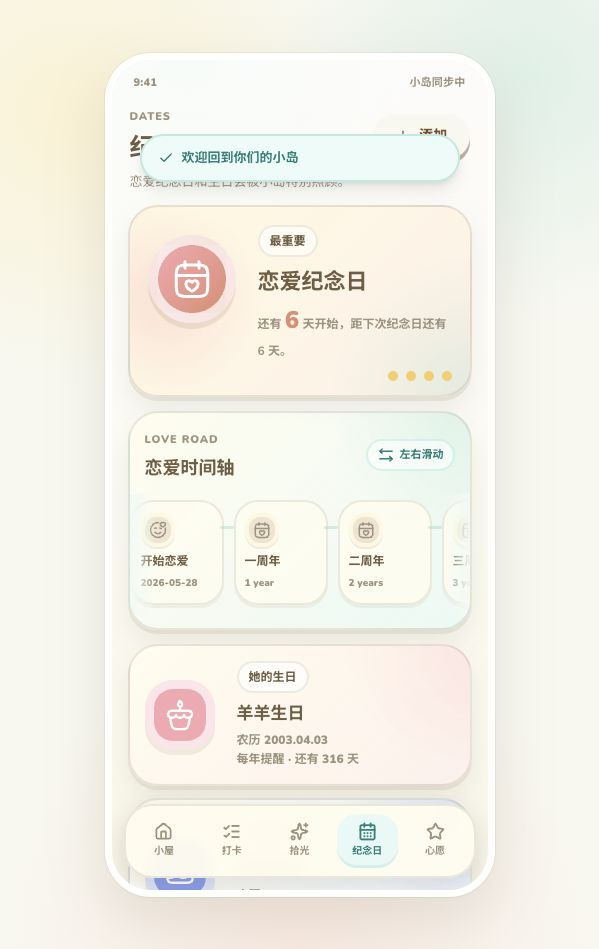
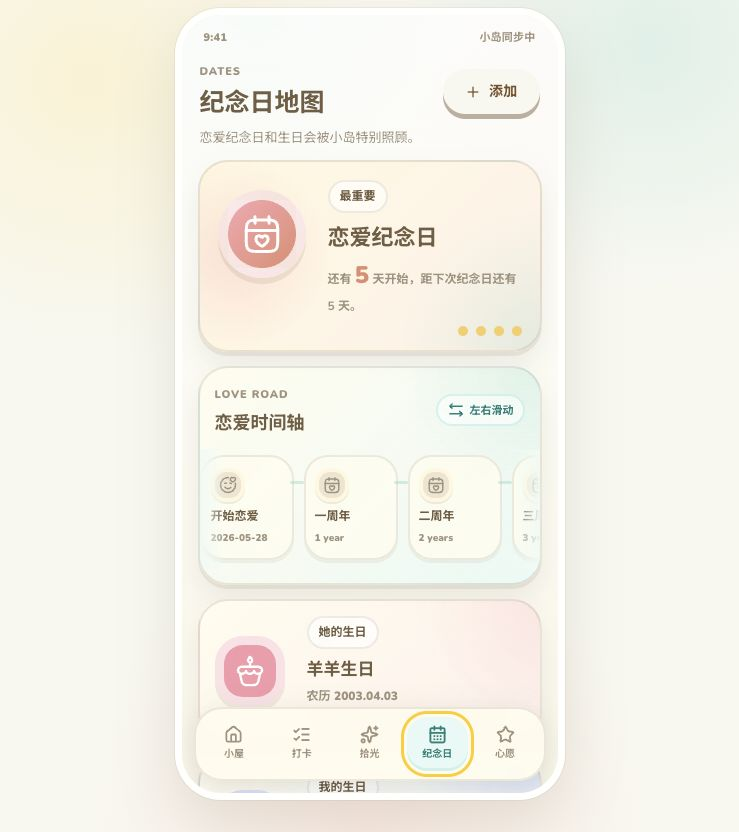
feat: display lunar anniversary countdowns

Changed region(s): [[0.1503, 0.0, 0.7813, 0.9688], [0.601, 0.0312, 0.8414, 0.1875], [0.601, 0.2812, 0.8114, 0.5]]

diff --git a/src/App.tsx b/src/App.tsx
@@ -133,6 +133,12 @@ function nextAnnualDays(date: string, todayDate = getBeijingDateString()) {
   return Math.ceil((next.getTime() - now) / 86_400_000)
 }
 
+function anniversaryDays(item: Anniversary, todayDate = getBeijingDateString()) {
+  if (typeof item.daysUntil === 'number') return item.daysUntil
+  if (item.nextOccurrenceDate) return dayDiff(todayDate, item.nextOccurrenceDate)
+  return item.repeat === 'yearly' ? nextAnnualDays(item.date, todayDate) : dayDiff(todayDate, item.date)
+}
+
 function getBeijingDateString(date = new Date()) {
   const parts = new Intl.DateTimeFormat('en-US', {
     day: '2-digit',
@@ -172,6 +178,9 @@ function mapBackendAnniversary(item: BackendAnniversary): Anniversary {
     isMain: item.isMain,
     kind: item.kind === 'proposal' || item.kind === 'engagement' ? 'custom' : item.kind,
     lunarDate: item.lunarDate ?? undefined,
+    nextOccurrenceDate: item.nextOccurrenceDate,
+    daysUntil: item.daysUntil,
+    sourceDateLabel: item.sourceDateLabel,
     owner: item.owner === 'partner' ? 'yangyang' : item.owner === 'owner' ? 'yanyan' : 'both',
   }
 }
@@ -637,7 +646,7 @@ export default function App() {
     [checklistCategories],
   )
   const nextAnniversary = useMemo(
-    () => anniversaries.map((item) => ({ ...item, days: item.repeat === 'yearly' ? nextAnnualDays(item.date, todayString) : dayDiff(todayString, item.date) })).sort((a, b) => a.days - b.days)[0],
+    () => anniversaries.map((item) => ({ ...item, days: anniversaryDays(item, todayString) })).sort((a, b) => a.days - b.days)[0],
     [anniversaries, todayString],
   )
   const liveStats = useMemo<AppStats | null>(
@@ -2004,7 +2013,7 @@ function MemoryList({ memories, onOpen }: { memories: Memory[]; onOpen: (memory:
 
 function AnniversaryPage({ anniversaries, todayDate, onAdd, onDelete }: { anniversaries: Anniversary[]; todayDate: string; onAdd: () => void; onDelete: (id: string) => void }) {
   const decorated = anniversaries
-    .map((item) => ({ ...item, days: item.repeat === 'yearly' ? nextAnnualDays(item.date, todayDate) : dayDiff(todayDate, item.date) }))
+    .map((item) => ({ ...item, days: anniversaryDays(item, todayDate) }))
     .sort((a, b) => a.days - b.days)
   const loveAnniversary = anniversaries.find((item) => item.kind === 'love' || item.isMain) ?? anniversaries[0]
   const birthdayItems = anniversaries.filter((item) => item.kind === 'birthday')
@@ -2076,8 +2085,8 @@ function AnniversaryPage({ anniversaries, todayDate, onAdd, onDelete }: { annive
             <div>
               <span className="leaf-chip">{item.owner === 'yangyang' ? '她的生日' : '我的生日'}</span>
               <h3>{item.name}</h3>
-              <p>{item.lunarDate ?? item.date}</p>
-              <p>每年提醒 · 还有 {nextAnnualDays(item.date, todayDate)} 天</p>
+              <p>{item.sourceDateLabel ?? item.lunarDate ?? item.date}</p>
+              <p>{item.nextOccurrenceDate ? `下次公历 ${item.nextOccurrenceDate}` : '每年提醒'} · 还有 {anniversaryDays(item, todayDate)} 天</p>
             </div>
           </div>
         ))}

diff --git a/src/services/backendApi.ts b/src/services/backendApi.ts
@@ -45,6 +45,9 @@ export interface BackendAnniversary {
   color: string
   isMain: boolean
   note: string | null
+  nextOccurrenceDate?: string
+  daysUntil?: number
+  sourceDateLabel?: string
   createdAt: string
 }
 

diff --git a/src/types/love.ts b/src/types/love.ts
@@ -68,6 +68,9 @@ export interface Anniversary {
   isMain?: boolean
   kind?: 'love' | 'birthday' | 'wedding' | 'custom'
   lunarDate?: string
+  nextOccurrenceDate?: string
+  daysUntil?: number
+  sourceDateLabel?: string
   owner?: 'yanyan' | 'yangyang' | 'both'
 }
 

diff --git a/docs/backend-roadmap.md b/docs/backend-roadmap.md
@@ -241,19 +241,19 @@ AppSetting
 
 ### Milestone 6: 提醒和统计
 
-- [x] 农历生日：MVP 保存并展示农历日期字段。
+- [x] 农历生日：后端保存农历日期，并返回精确换算后的下一次公历日期和倒计时。
 - [x] 纪念日提醒：MVP 保存提醒开关，前端展示倒计时。
 - [x] 基础统计页：前端已有可用展示。
 - [x] 真实统计聚合：`/app/snapshot.stats` 返回计数、近 42 天热力图和成员参与占比。
 - [x] 服务端天气缓存：前端优先使用 `/weather`，后端缓存 Open-Meteo 结果。
 - [x] 年度报告生成：`/reports/annual` 聚合年度总数、月份活动和高光条目。
-- [ ] 精准农历换算、Web Push 进入 post-MVP。
+- [ ] Web Push 进入 post-MVP。
 
 ## MVP 完成状态
 
 截至当前版本，MVP 的核心可用范围已经完成：两个人可以登录私有小岛，查看首页，完成打卡，维护纪念日，记录拾光和照片，管理心愿，发送悄悄话，并在服务器上通过 Docker 持久运行。后端具备 PostgreSQL 数据持久化、上传文件持久化、备份和恢复脚本。
 
-Post-MVP 的重点不再是“能不能用”，而是体验增强：精确农历换算、Web Push、编辑体验打磨和对象存储迁移。
+Post-MVP 的重点不再是“能不能用”，而是体验增强：Web Push、编辑体验打磨和对象存储迁移。
 
 ## 部署建议
 

diff --git a/docs/product-api-guide.md b/docs/product-api-guide.md
@@ -147,7 +147,7 @@ DELETE /anniversaries/:anniversaryId
 - 我的生日：农历 2003-02-25
 - 结婚纪念日：预留，后续添加
 
-农历日期建议后端统一转换和提醒，前端只展示后端返回的 `nextOccurrenceDate` 和 `daysLeft`。
+后端使用农历换算生成 `nextOccurrenceDate`、`daysUntil` 和 `sourceDateLabel`。例如在 2026-05-23 查看，农历 2003-04-03 的下一次公历日期是 2027-05-08；前端只展示这些后端字段，不再按公历生日硬算。
 
 ### Wishes
 